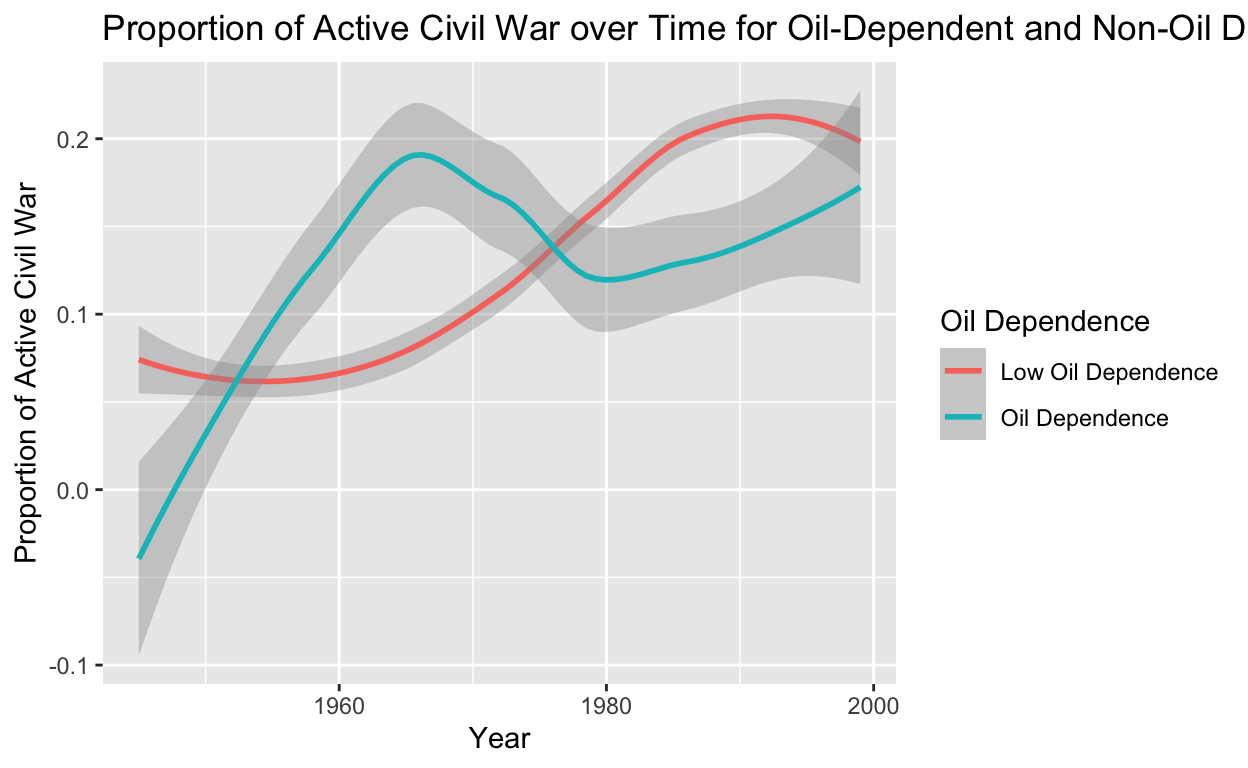
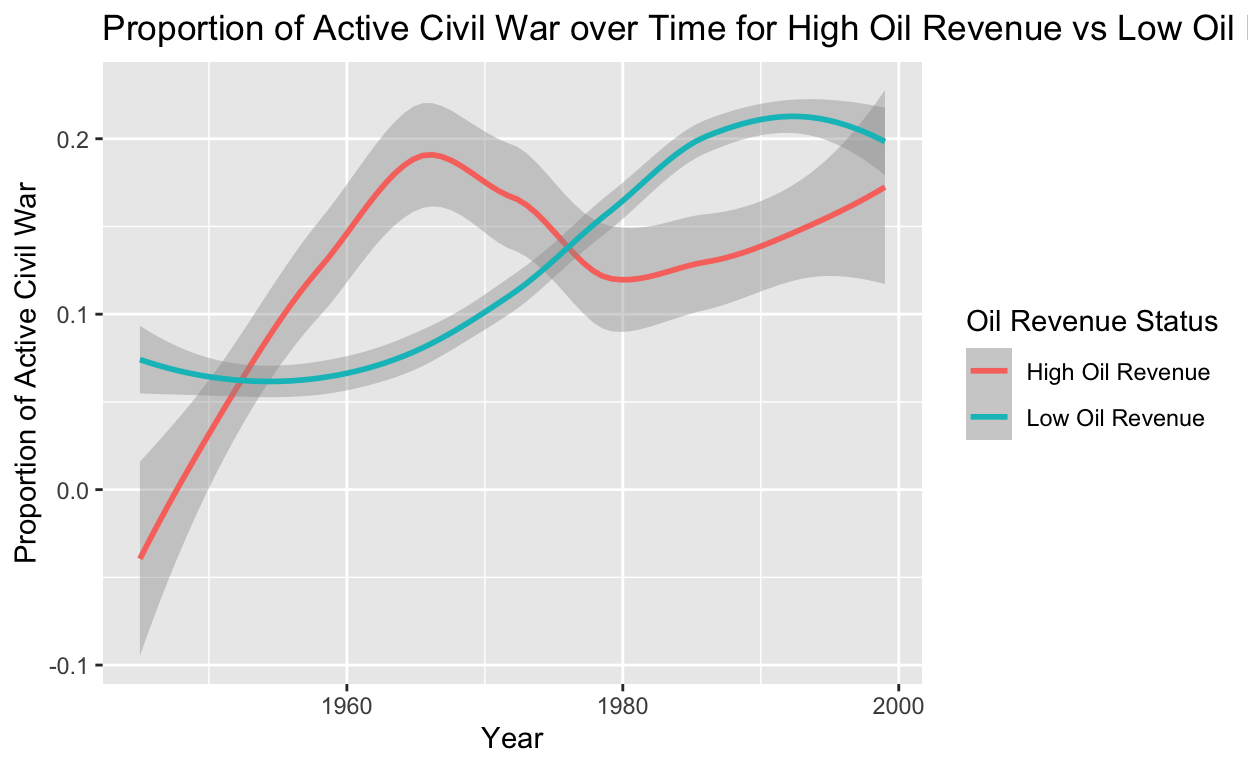
updated graph labels

diff --git a/index.html b/index.html
@@ -1578,7 +1578,7 @@ code span.wa { color: #5e5e5e; font-style: italic; } /* Warning */
 <span><span class='co'># Create oil_rev variable and calculate avg polity by oil_rev</span></span>
 <span><span class='va'>polity_data</span> <span class='op'>&lt;-</span> <span class='va'>data</span> <span class='op'>|&gt;</span></span>
 <span>  <span class='fu'><a href='https://dplyr.tidyverse.org/reference/mutate.html'>mutate</a></span><span class='op'>(</span></span>
-<span>    oil_rev <span class='op'>=</span> <span class='fu'><a href='https://dplyr.tidyverse.org/reference/if_else.html'>if_else</a></span><span class='op'>(</span><span class='va'>Oil</span> <span class='op'>==</span> <span class='fl'>1</span>, <span class='st'>"Oil Dependence"</span>, <span class='st'>"Low Oil Dependence"</span><span class='op'>)</span></span>
+<span>    oil_rev <span class='op'>=</span> <span class='fu'><a href='https://dplyr.tidyverse.org/reference/if_else.html'>if_else</a></span><span class='op'>(</span><span class='va'>Oil</span> <span class='op'>==</span> <span class='fl'>1</span>, <span class='st'>"High Oil Revenue"</span>, <span class='st'>"Low Oil Revenue"</span><span class='op'>)</span></span>
 <span>  <span class='op'>)</span> </span>
 <span>  </span>
 <span></span>
@@ -1591,8 +1591,8 @@ code span.wa { color: #5e5e5e; font-style: italic; } /* Warning */
 <span>  <span class='fu'><a href='https://ggplot2.tidyverse.org/reference/labs.html'>labs</a></span><span class='op'>(</span></span>
 <span>    x <span class='op'>=</span> <span class='st'>"Year"</span>,</span>
 <span>    y <span class='op'>=</span> <span class='st'>"Average Polity Score"</span>,</span>
-<span>    title <span class='op'>=</span> <span class='st'>"Polity Over Time For Oil Dependent vs Non-Oil Dependent Countries"</span>,</span>
-<span>    color <span class='op'>=</span> <span class='st'>"Oil Dependence"</span></span>
+<span>    title <span class='op'>=</span> <span class='st'>"Polity Over Time for High Oil Revenue vs Low Oil Revenue Countries"</span>,</span>
+<span>    color <span class='op'>=</span> <span class='st'>"Oil Revenue"</span></span>
 <span>  <span class='op'>)</span></span>
 <span></span>
 <span><span class='va'>polity_plot</span></span></code></pre>
@@ -1606,7 +1606,7 @@ code span.wa { color: #5e5e5e; font-style: italic; } /* Warning */
 <span><span class='co'># Create oil dependence variable</span></span>
 <span><span class='va'>war_data</span> <span class='op'>&lt;-</span> <span class='va'>data</span> <span class='op'>|&gt;</span></span>
 <span>  <span class='fu'><a href='https://dplyr.tidyverse.org/reference/mutate.html'>mutate</a></span><span class='op'>(</span></span>
-<span>    oil_rev <span class='op'>=</span> <span class='fu'><a href='https://dplyr.tidyverse.org/reference/if_else.html'>if_else</a></span><span class='op'>(</span><span class='va'>Oil</span> <span class='op'>==</span> <span class='fl'>1</span>, <span class='st'>"Oil Dependence"</span>, <span class='st'>"Low Oil Dependence"</span><span class='op'>)</span></span>
+<span>    oil_rev <span class='op'>=</span> <span class='fu'><a href='https://dplyr.tidyverse.org/reference/if_else.html'>if_else</a></span><span class='op'>(</span><span class='va'>Oil</span> <span class='op'>==</span> <span class='fl'>1</span>, <span class='st'>"High Oil Revenue"</span>, <span class='st'>"Low Oil Revenue"</span><span class='op'>)</span></span>
 <span>  <span class='op'>)</span> </span>
 <span></span>
 <span><span class='co'># Graph the proportion of active civil war over time for oil-dependent and non-oil dependent countries</span></span>
@@ -1618,8 +1618,8 @@ code span.wa { color: #5e5e5e; font-style: italic; } /* Warning */
 <span>  <span class='fu'><a href='https://ggplot2.tidyverse.org/reference/labs.html'>labs</a></span><span class='op'>(</span></span>
 <span>    x <span class='op'>=</span> <span class='st'>"Year"</span>,</span>
 <span>    y <span class='op'>=</span> <span class='st'>"Proportion of Active Civil War"</span>,</span>
-<span>    title <span class='op'>=</span> <span class='st'>"Proportion of Active Civil War over Time for Oil-Dependent and Non-Oil Dependent Countries"</span>,</span>
-<span>    color <span class='op'>=</span> <span class='st'>"Oil Dependence"</span></span>
+<span>    title <span class='op'>=</span> <span class='st'>"Proportion of Active Civil War over Time for High Oil Revenue vs Low Oil Revenue Countries"</span>,</span>
+<span>    color <span class='op'>=</span> <span class='st'>"Oil Revenue Status"</span></span>
 <span>  <span class='op'>)</span></span>
 <span></span>
 <span><span class='va'>war_plot</span></span></code></pre>
